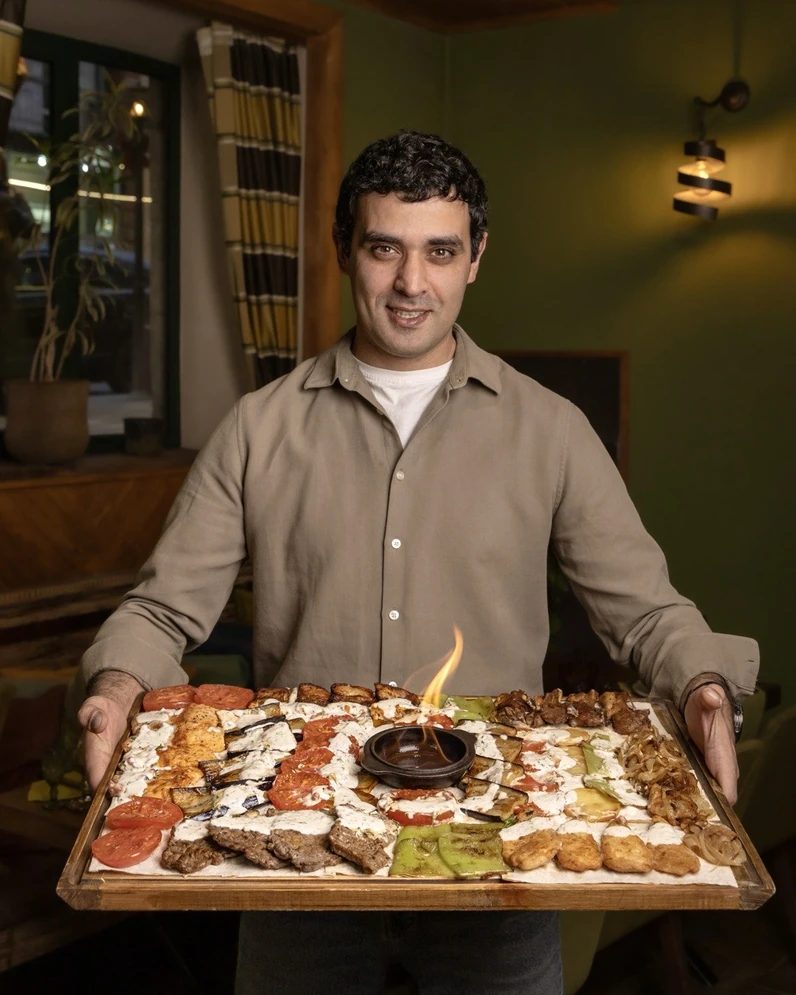
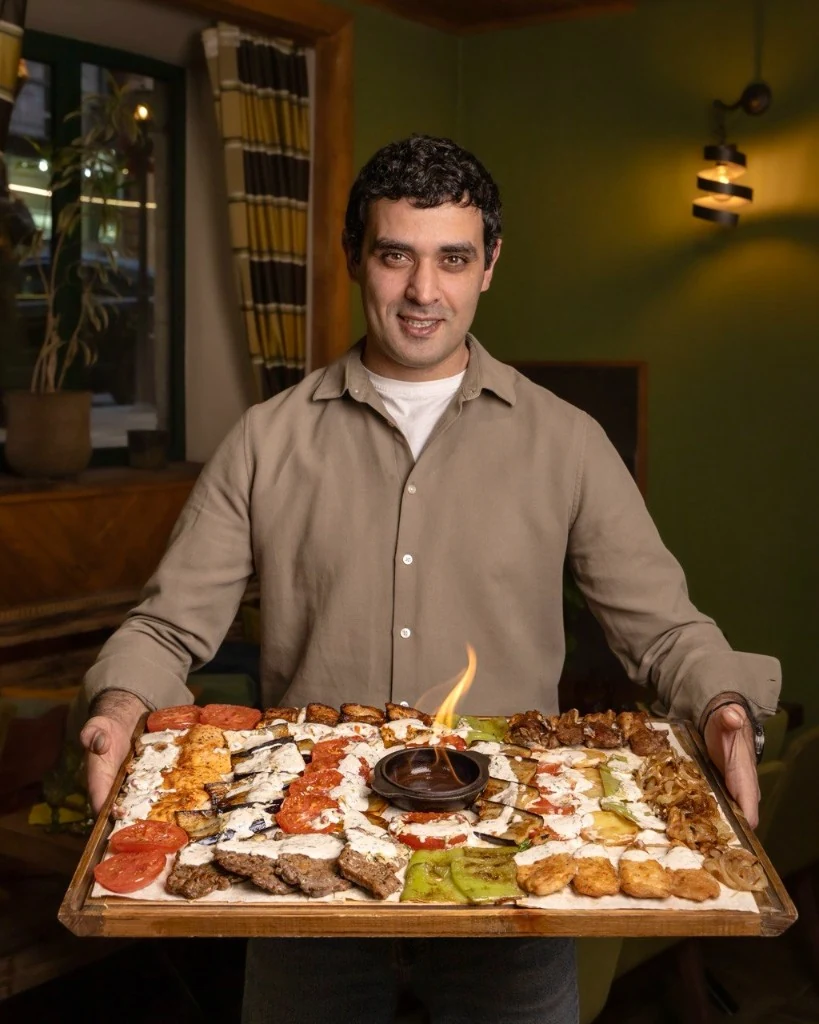
Add new venue blog asset and enhance HubBannerGrid layout
- Introduced a new venue blog asset 'venue-blog-hq.webp' for improved visual content.
- Updated the HubBannerGrid component to utilize the new asset and adjusted logo dimensions for better alignment.
- Enhanced CSS styles for the storefront layout, including increased padding for the restaurants page to improve spacing.

diff --git a/src/features/home/ui/RestaurantsPageView.tsx b/src/features/home/ui/RestaurantsPageView.tsx
@@ -1,9 +1,17 @@
+"use client";
+
 import Image from "next/image";
+import { useState } from "react";
 
 import { AppLink } from "@/components/ui/AppLink";
+import { HubStaggerItem } from "@/features/home/ui/HubStaggerItem";
 import { RestaurantVenueCard } from "@/features/home/ui/RestaurantVenueCard";
 import type { Locale } from "@/lib/i18n/config";
 import { staticAssetUrl } from "@/lib/media/static-asset-url";
+import {
+  scheduleStateUpdate,
+  useDeferredEffect,
+} from "@/lib/react/schedule-after-paint";
 
 const HUB = "/assets/brand/hub";
 const SAME_ORIGIN = { sameOrigin: true } as const;
@@ -19,20 +27,26 @@ type RestaurantsPageViewProps = {
 };
 
 /**
- * Restaurants list — mobile 704:4019, desktop 704:4230.
+ * Restaurants list — same hub grid and edge stagger (704:4019 / 704:4230).
  */
 export function RestaurantsPageView({ locale, labels }: RestaurantsPageViewProps) {
+  const [reveal, setReveal] = useState(false);
+
+  useDeferredEffect(() => {
+    scheduleStateUpdate(setReveal, true);
+  }, []);
+
   return (
     <section
-      className="restaurants-page -mx-4 sm:-mx-6 xl:-mx-8 xl:-my-10"
+      className="restaurants-page hub-first-page -mx-4 pt-[8px] sm:-mx-6 xl:-mx-8 xl:-mb-10 xl:pt-[8px]"
       data-node-id="704:4019"
     >
-      <div className="mx-auto flex w-full max-w-[397px] flex-col gap-5 px-[15px] sm:px-6 xl:max-w-[1302px] xl:gap-8 xl:px-0">
+      <div className="px-[15px] sm:px-6 xl:hidden">
         <AppLink
           href={`/${locale}`}
           prefetchPolicy="intent"
           aria-label={labels.back}
-          className="inline-flex w-[64px] shrink-0 xl:hidden"
+          className="mb-[18px] inline-flex w-[64px] shrink-0"
         >
           <Image
             src={staticAssetUrl(`${HUB}/back-chevron.svg`, SAME_ORIGIN)}
@@ -43,15 +57,22 @@ export function RestaurantsPageView({ locale, labels }: RestaurantsPageViewProps
             data-node-id="704:4040"
           />
         </AppLink>
+      </div>
 
-        <div
-          className="flex flex-col gap-5 xl:grid xl:grid-cols-2 xl:gap-x-[31px] xl:gap-y-[35px]"
-          data-node-id="709:4353"
+      <div
+        className="mx-auto grid w-full max-w-[1312px] grid-cols-1 gap-[18px] px-[15px] sm:px-6 xl:grid-cols-[repeat(24,minmax(0,1fr))] xl:gap-6 xl:px-16"
+        data-node-id="709:4353"
+      >
+        <HubStaggerItem
+          index={0}
+          from="left"
+          reveal={reveal}
+          className="xl:col-span-12"
         >
           <RestaurantVenueCard
             title={labels.tumanyan}
             titleClassName="top-[calc(50%+63px)] right-[21px] xl:top-[calc(50%+106.5px)] xl:right-[43px] xl:text-[54px]"
-            className="xl:h-[343px]"
+            className="xl:h-[338px]"
             photoSrc={staticAssetUrl(`${HUB}/venue-tumanyan.webp`, SAME_ORIGIN)}
             photoWidth={413}
             photoHeight={463}
@@ -66,10 +87,17 @@ export function RestaurantsPageView({ locale, labels }: RestaurantsPageViewProps
             logoXlHeight={181}
             logoXlClassName="top-[34px] left-[37px]"
           />
+        </HubStaggerItem>
+        <HubStaggerItem
+          index={1}
+          from="right"
+          reveal={reveal}
+          className="xl:col-span-12"
+        >
           <RestaurantVenueCard
             title={labels.saryan}
             titleClassName="top-[calc(50%+67px)] right-[41px] xl:top-[calc(50%+114.5px)] xl:right-[38px] xl:text-[54px]"
-            className="xl:h-[343px]"
+            className="xl:h-[338px]"
             photoSrc={staticAssetUrl(`${HUB}/venue-saryan.webp`, SAME_ORIGIN)}
             photoWidth={397}
             photoHeight={531}
@@ -80,19 +108,24 @@ export function RestaurantsPageView({ locale, labels }: RestaurantsPageViewProps
             logoHeight={160}
             logoClassName="top-[9px] left-[15px] h-[160px] w-[284px] drop-shadow-[0px_4px_4px_rgba(0,0,0,0.9)] xl:top-[5px] xl:left-[19px] xl:h-[210px] xl:w-[374px]"
           />
-          <div className="xl:col-span-2 xl:flex xl:justify-center">
-            <RestaurantVenueCard
-              title={labels.blog}
-              titleClassName="top-[181px] right-[37px] xl:top-[241px] xl:right-[39px]"
-              className="xl:h-[301px] xl:w-[577px]"
-              photoSrc={staticAssetUrl(`${HUB}/venue-blog.webp`, SAME_ORIGIN)}
-              photoWidth={398}
-              photoHeight={496}
-              photoClassName="absolute top-[calc(50%+76px)] left-1/2 h-[496px] min-w-full w-[398px] -translate-x-1/2 -translate-y-1/2 object-cover xl:top-[calc(50%+129px)] xl:h-[723px] xl:w-[578px]"
-              photoNodeId="704:4030"
-            />
-          </div>
-        </div>
+        </HubStaggerItem>
+        <HubStaggerItem
+          index={2}
+          from="left"
+          reveal={reveal}
+          className="xl:col-span-24 xl:flex xl:justify-center"
+        >
+          <RestaurantVenueCard
+            title={labels.blog}
+            titleClassName="top-[181px] right-[37px] xl:top-[241px] xl:right-[39px]"
+            className="xl:h-[301px] xl:w-[577px]"
+            photoSrc={staticAssetUrl(`${HUB}/venue-blog-hq.webp`, SAME_ORIGIN)}
+            photoWidth={819}
+            photoHeight={1024}
+            photoClassName="absolute inset-0 h-full w-full object-cover object-[center_18%]"
+            photoNodeId="704:4030"
+          />
+        </HubStaggerItem>
       </div>
     </section>
   );

diff --git a/src/features/home/ui/HubBannerGrid.tsx b/src/features/home/ui/HubBannerGrid.tsx
@@ -1,16 +1,12 @@
 "use client";
 
-import { motion, type Transition } from "motion/react";
-import type { ReactNode } from "react";
-
 import { HubBannerCard } from "@/features/home/ui/HubBannerCard";
+import { HubStaggerItem } from "@/features/home/ui/HubStaggerItem";
 import { RestormaniaHubMark } from "@/features/home/ui/RestormaniaHubMark";
 import type { Locale } from "@/lib/i18n/config";
 import { staticAssetUrl } from "@/lib/media/static-asset-url";
 
 const HUB = "/assets/brand/hub";
-const CARD_STAGGER_S = 0.16;
-const EDGE = "14%";
 
 type HubBannerGridProps = {
   locale: Locale;
@@ -23,53 +19,6 @@ type HubBannerGridProps = {
   reveal?: boolean;
   instant?: boolean;
 };
-
-function staggerTransition(index: number, instant: boolean): Transition {
-  if (instant) {
-    return { duration: 0 };
-  }
-
-  return {
-    type: "spring",
-    stiffness: 48,
-    damping: 18,
-    mass: 1.05,
-    delay: index * CARD_STAGGER_S,
-  };
-}
-
-function HubStaggerItem({
-  index,
-  from,
-  reveal,
-  instant,
-  className,
-  children,
-}: {
-  index: number;
-  from: "left" | "right";
-  reveal: boolean;
-  instant: boolean;
-  className: string;
-  children: ReactNode;
-}) {
-  const hiddenX = from === "left" ? `-${EDGE}` : EDGE;
-
-  return (
-    <motion.div
-      className={className}
-      initial={false}
-      animate={
-        reveal
-          ? { opacity: 1, x: 0 }
-          : { opacity: 0, x: hiddenX }
-      }
-      transition={staggerTransition(index, instant)}
-    >
-      {children}
-    </motion.div>
-  );
-}
 
 /**
  * Kamancha first-page banners (Figma 704:4043 / 704:4123).
@@ -99,12 +48,12 @@ export function HubBannerGrid({
           label={labels.restaurants}
           photoSrc={staticAssetUrl(`${HUB}/street.webp`, sameOrigin)}
           logoSrc={staticAssetUrl(`${HUB}/kamancha-script.svg`, sameOrigin)}
-          logoWidth={254}
-          logoHeight={132}
+          logoWidth={222}
+          logoHeight={118}
           iconSrc={staticAssetUrl(`${HUB}/icon-location.svg`, sameOrigin)}
           photoNodeId="704:4049"
           photoClassName="object-cover object-[center_30%]"
-          logoClassName="top-6 left-[23px] h-[135px] w-auto"
+          logoClassName="top-6 left-[23px] h-[118px] w-auto"
         />
       </HubStaggerItem>
       <HubStaggerItem
@@ -119,12 +68,12 @@ export function HubBannerGrid({
           label={labels.delivery}
           photoSrc={staticAssetUrl(`${HUB}/khorovats.webp`, sameOrigin)}
           logoSrc={staticAssetUrl(`${HUB}/factory-badge.webp`, sameOrigin)}
-          logoWidth={254}
-          logoHeight={100}
+          logoWidth={218}
+          logoHeight={86}
           iconSrc={staticAssetUrl(`${HUB}/icon-truck.svg`, sameOrigin)}
           photoNodeId="704:4056"
           photoClassName="object-cover"
-          logoClassName="top-7 left-[40px] h-[100px] w-auto"
+          logoClassName="top-7 left-[40px] h-[86px] w-auto"
         />
       </HubStaggerItem>
       <HubStaggerItem

diff --git a/src/features/home/ui/HubStaggerItem.tsx b/src/features/home/ui/HubStaggerItem.tsx
@@ -1,0 +1,51 @@
+"use client";
+
+import { motion, type Transition } from "motion/react";
+import type { ReactNode } from "react";
+
+const CARD_STAGGER_S = 0.16;
+const EDGE = "14%";
+
+const springSoft: Transition = {
+  type: "spring",
+  stiffness: 48,
+  damping: 18,
+  mass: 1.05,
+};
+
+type HubStaggerItemProps = {
+  index: number;
+  from: "left" | "right";
+  reveal: boolean;
+  instant?: boolean;
+  className: string;
+  children: ReactNode;
+};
+
+/**
+ * Hub-style edge entrance for a banner or venue tile.
+ */
+export function HubStaggerItem({
+  index,
+  from,
+  reveal,
+  instant = false,
+  className,
+  children,
+}: HubStaggerItemProps) {
+  const hiddenX = from === "left" ? `-${EDGE}` : EDGE;
+  const transition: Transition = instant
+    ? { duration: 0 }
+    : { ...springSoft, delay: index * CARD_STAGGER_S };
+
+  return (
+    <motion.div
+      className={className}
+      initial={false}
+      animate={reveal ? { opacity: 1, x: 0 } : { opacity: 0, x: hiddenX }}
+      transition={transition}
+    >
+      {children}
+    </motion.div>
+  );
+}

diff --git a/src/app/globals.css b/src/app/globals.css
@@ -947,12 +947,13 @@ body {
   }
 
   .storefront-main:has(.restaurants-page) {
-    padding-top: 0.75rem;
+    padding-top: 1.75rem;
     padding-bottom: 1.5rem;
   }
 
   @media (min-width: 1280px) {
-    .storefront-main:has(.hub-first-page) {
+    .storefront-main:has(.hub-first-page),
+    .storefront-main:has(.restaurants-page) {
       padding-top: 3rem;
     }
   }
